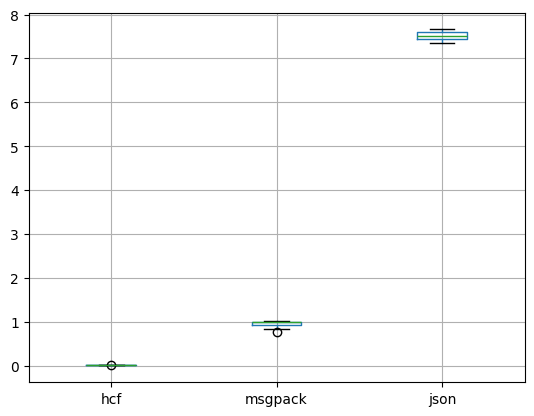
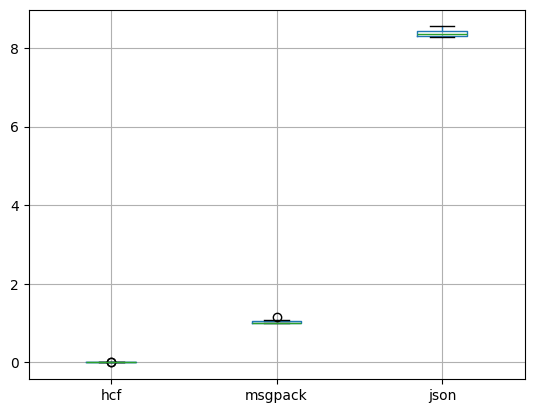
drop link to docs for now

diff --git a/docs/notebooks/Create Catalog.html b/docs/notebooks/Create Catalog.html
@@ -137,10 +137,10 @@ pre > code.sourceCode > span > a:first-child::before { text-decoration: underlin
 
 
 <p>Download an example product catalog from this <a href="https://www.kaggle.com/datasets/paramaggarwal/fashion-product-images-small">Kaggle dataset</a>.</p>
-<div id="63f2b9d5-428e-49b3-bf00-dd26ed279cc1" class="cell" data-execution_count="19">
+<div id="63f2b9d5-428e-49b3-bf00-dd26ed279cc1" class="cell" data-execution_count="9">
 <div class="sourceCode cell-code" id="cb1"><pre class="sourceCode python code-with-copy"><code class="sourceCode python"><span id="cb1-1"><a href="#cb1-1" aria-hidden="true" tabindex="-1"></a><span class="im">import</span> glob</span>
 <span id="cb1-2"><a href="#cb1-2" aria-hidden="true" tabindex="-1"></a><span class="im">from</span> hushh <span class="im">import</span> catalog</span>
-<span id="cb1-3"><a href="#cb1-3" aria-hidden="true" tabindex="-1"></a><span class="im">from</span> hushh.catalog <span class="im">import</span> Catalog, Product</span>
+<span id="cb1-3"><a href="#cb1-3" aria-hidden="true" tabindex="-1"></a><span class="im">from</span> hushh.catalog <span class="im">import</span> Catalog, Product, Brand</span>
 <span id="cb1-4"><a href="#cb1-4" aria-hidden="true" tabindex="-1"></a><span class="im">from</span> PIL <span class="im">import</span> Image</span>
 <span id="cb1-5"><a href="#cb1-5" aria-hidden="true" tabindex="-1"></a><span class="im">import</span> json</span>
 <span id="cb1-6"><a href="#cb1-6" aria-hidden="true" tabindex="-1"></a><span class="im">from</span> tqdm <span class="im">import</span> tqdm</span>
@@ -162,24 +162,24 @@ pre > code.sourceCode > span > a:first-child::before { text-decoration: underlin
 <section id="data-details" class="level2">
 <h2 class="anchored" data-anchor-id="data-details">Data Details</h2>
 <p>The dataset contains around ~40K fashion related images</p>
-<div id="6a99a9ea-4d69-4a36-8b14-b795962494ee" class="cell" data-execution_count="2">
+<div id="6a99a9ea-4d69-4a36-8b14-b795962494ee" class="cell" data-execution_count="4">
 <div class="sourceCode cell-code" id="cb4"><pre class="sourceCode python code-with-copy"><code class="sourceCode python"><span id="cb4-1"><a href="#cb4-1" aria-hidden="true" tabindex="-1"></a><span class="bu">len</span>(glob.glob(<span class="st">"images/*"</span>))</span></code><button title="Copy to Clipboard" class="code-copy-button"><i class="bi"></i></button></pre></div>
-<div class="cell-output cell-output-display" data-execution_count="2">
+<div class="cell-output cell-output-display" data-execution_count="4">
 <pre><code>44441</code></pre>
 </div>
 </div>
 <p>Taking a quick look at the images, they’re jpeg files, with an id as a file name.</p>
-<div id="55d7de12-6592-4575-b891-87bef2bbbaa2" class="cell" data-execution_count="3">
+<div id="55d7de12-6592-4575-b891-87bef2bbbaa2" class="cell" data-execution_count="5">
 <div class="sourceCode cell-code" id="cb6"><pre class="sourceCode python code-with-copy"><code class="sourceCode python"><span id="cb6-1"><a href="#cb6-1" aria-hidden="true" tabindex="-1"></a><span class="bu">print</span>(glob.glob(<span class="st">"images/*"</span>)[:<span class="dv">10</span>])</span></code><button title="Copy to Clipboard" class="code-copy-button"><i class="bi"></i></button></pre></div>
 <div class="cell-output cell-output-stdout">
 <pre><code>['images/9733.jpg', 'images/14147.jpg', 'images/52112.jpg', 'images/6400.jpg', 'images/34297.jpg', 'images/24084.jpg', 'images/12536.jpg', 'images/54563.jpg', 'images/15259.jpg', 'images/35189.jpg']</code></pre>
 </div>
 </div>
 <p>The “styles” csv file gives some of the metadata for a given id.</p>
-<div id="e3cf1060-f5c2-417a-8fb5-475f305abaa9" class="cell" data-execution_count="4">
+<div id="e3cf1060-f5c2-417a-8fb5-475f305abaa9" class="cell" data-execution_count="6">
 <div class="sourceCode cell-code" id="cb8"><pre class="sourceCode python code-with-copy"><code class="sourceCode python"><span id="cb8-1"><a href="#cb8-1" aria-hidden="true" tabindex="-1"></a>styles <span class="op">=</span> pd.read_csv(<span class="st">"styles.csv"</span>,usecols<span class="op">=</span><span class="bu">range</span>(<span class="dv">10</span>), index_col<span class="op">=</span><span class="dv">0</span>)</span>
 <span id="cb8-2"><a href="#cb8-2" aria-hidden="true" tabindex="-1"></a>styles.head()</span></code><button title="Copy to Clipboard" class="code-copy-button"><i class="bi"></i></button></pre></div>
-<div class="cell-output cell-output-display" data-execution_count="4">
+<div class="cell-output cell-output-display" data-execution_count="6">
 <div>
 <div>
 
@@ -289,10 +289,10 @@ pre > code.sourceCode > span > a:first-child::before { text-decoration: underlin
 <li>Create a product for the id and metadata (using a dummy url, since we won’t be linking to a product url).</li>
 </ol>
 <p>The Catalog comes with its own method for writing catalog files.</p>
-<div id="f79c3d89-4236-4b67-9675-fd1f076ebb73" class="cell">
+<div id="f79c3d89-4236-4b67-9675-fd1f076ebb73" class="cell" data-execution_count="10">
 <div class="sourceCode cell-code" id="cb9"><pre class="sourceCode python code-with-copy"><code class="sourceCode python"><span id="cb9-1"><a href="#cb9-1" aria-hidden="true" tabindex="-1"></a></span>
 <span id="cb9-2"><a href="#cb9-2" aria-hidden="true" tabindex="-1"></a>cat <span class="op">=</span> Catalog(<span class="st">"demo_catalog"</span>)</span>
-<span id="cb9-3"><a href="#cb9-3" aria-hidden="true" tabindex="-1"></a></span>
+<span id="cb9-3"><a href="#cb9-3" aria-hidden="true" tabindex="-1"></a>dummy_brand <span class="op">=</span> Brand(<span class="st">"dummy"</span>, <span class="st">"description"</span>, <span class="st">"dummy_url"</span>)</span>
 <span id="cb9-4"><a href="#cb9-4" aria-hidden="true" tabindex="-1"></a><span class="cf">for</span> filename <span class="kw">in</span> tqdm(glob.glob(<span class="st">"images/*"</span>)):</span>
 <span id="cb9-5"><a href="#cb9-5" aria-hidden="true" tabindex="-1"></a>    <span class="bu">id</span>, ext <span class="op">=</span> os.path.splitext(os.path.basename(filename))</span>
 <span id="cb9-6"><a href="#cb9-6" aria-hidden="true" tabindex="-1"></a>    <span class="bu">id</span> <span class="op">=</span> <span class="bu">int</span>(<span class="bu">id</span>)</span>
@@ -301,13 +301,13 @@ pre > code.sourceCode > span > a:first-child::before { text-decoration: underlin
 <span id="cb9-9"><a href="#cb9-9" aria-hidden="true" tabindex="-1"></a>        <span class="cf">pass</span></span>
 <span id="cb9-10"><a href="#cb9-10" aria-hidden="true" tabindex="-1"></a>        <span class="co"># print(f"Skipping: {id}, product had no description")</span></span>
 <span id="cb9-11"><a href="#cb9-11" aria-hidden="true" tabindex="-1"></a>    <span class="cf">else</span>:</span>
-<span id="cb9-12"><a href="#cb9-12" aria-hidden="true" tabindex="-1"></a>        prod <span class="op">=</span> Product(description<span class="op">=</span>style.productDisplayName, url<span class="op">=</span><span class="st">"dummy_url"</span>, image<span class="op">=</span>filename)</span>
+<span id="cb9-12"><a href="#cb9-12" aria-hidden="true" tabindex="-1"></a>        prod <span class="op">=</span> Product(description<span class="op">=</span>style.productDisplayName, url<span class="op">=</span><span class="st">"dummy_url"</span>, image<span class="op">=</span>filename, brand <span class="op">=</span> dummy_brand)</span>
 <span id="cb9-13"><a href="#cb9-13" aria-hidden="true" tabindex="-1"></a>        cat.addProduct(prod)</span>
 <span id="cb9-14"><a href="#cb9-14" aria-hidden="true" tabindex="-1"></a></span>
 <span id="cb9-15"><a href="#cb9-15" aria-hidden="true" tabindex="-1"></a><span class="bu">print</span>(<span class="st">"Writing Catalog"</span>)</span>
 <span id="cb9-16"><a href="#cb9-16" aria-hidden="true" tabindex="-1"></a>cat.to_hcf(<span class="st">"catalog.hcf"</span>)</span></code><button title="Copy to Clipboard" class="code-copy-button"><i class="bi"></i></button></pre></div>
 <div class="cell-output cell-output-stderr">
-<pre><code>100%|█████████████████████████████████████████████████████████████████████████████████████████████████████████████████████████████████████████████████████████████████████████████████████| 44441/44441 [00:14&lt;00:00, 3120.79it/s]</code></pre>
+<pre><code>100%|████████████████████████████████████████████████████████████████████████████████████████████████████████████████████████████████████████████████████████████████████████████████████████████████████████████████████████████████████████████████████████████████████████████████████████████████████| 44441/44441 [00:14&lt;00:00, 3134.00it/s]</code></pre>
 </div>
 <div class="cell-output cell-output-stdout">
 <pre><code>Writing Catalog
@@ -327,21 +327,29 @@ Collected Image and text features for batch 2
 Image embeddings collected for batch 2
 Text embeddings collected for batch 2
 Collected images and text for batch 3
-Collected inputs for batch 3</code></pre>
+Collected inputs for batch 3
+Collected Image and text features for batch 3
+Image embeddings collected for batch 3
+Text embeddings collected for batch 3
+Collected images and text for batch 4
+Collected inputs for batch 4
+Collected Image and text features for batch 4
+Image embeddings collected for batch 4
+Text embeddings collected for batch 4</code></pre>
 </div>
 </div>
 </section>
 <section id="create-a-comparison-json-dataset" class="level2">
 <h2 class="anchored" data-anchor-id="create-a-comparison-json-dataset">Create a comparison JSON dataset</h2>
 <p>We will set up a quick and dirty json output for comparison. This just dumps the flatbatch content from the catalog in standard json format.</p>
-<div id="87020271-8a04-45ed-90ea-6ca6d135446a" class="cell" data-execution_count="6">
+<div id="87020271-8a04-45ed-90ea-6ca6d135446a" class="cell" data-execution_count="11">
 <div class="sourceCode cell-code" id="cb12"><pre class="sourceCode python code-with-copy"><code class="sourceCode python"><span id="cb12-1"><a href="#cb12-1" aria-hidden="true" tabindex="-1"></a><span class="cf">with</span> <span class="bu">open</span> (<span class="st">"catalog.json"</span>, <span class="st">"w"</span>) <span class="im">as</span> fh:</span>
 <span id="cb12-2"><a href="#cb12-2" aria-hidden="true" tabindex="-1"></a>    json.dump(cat.productVibes, fh, default<span class="op">=</span><span class="kw">lambda</span> o: o.__dict__)</span></code><button title="Copy to Clipboard" class="code-copy-button"><i class="bi"></i></button></pre></div>
 </div>
 </section>
 <section id="create-a-comparison-msgpack-dataset" class="level1">
 <h1>Create a comparison MsgPack dataset</h1>
-<div id="331b99c7-773f-4888-bbd8-196914accd16" class="cell" data-execution_count="41">
+<div id="331b99c7-773f-4888-bbd8-196914accd16" class="cell" data-execution_count="12">
 <div class="sourceCode cell-code" id="cb13"><pre class="sourceCode python code-with-copy"><code class="sourceCode python"><span id="cb13-1"><a href="#cb13-1" aria-hidden="true" tabindex="-1"></a><span class="cf">with</span> <span class="bu">open</span> (<span class="st">"catalog.msgpack"</span>, <span class="st">"wb"</span>) <span class="im">as</span> fh:</span>
 <span id="cb13-2"><a href="#cb13-2" aria-hidden="true" tabindex="-1"></a>    packed <span class="op">=</span> msgpack.packb(cat.productVibes, default<span class="op">=</span><span class="kw">lambda</span> o: o.__dict__)</span>
 <span id="cb13-3"><a href="#cb13-3" aria-hidden="true" tabindex="-1"></a>    fh.write(packed)</span></code><button title="Copy to Clipboard" class="code-copy-button"><i class="bi"></i></button></pre></div>
@@ -349,7 +357,7 @@ Collected inputs for batch 3</code></pre>
 </section>
 <section id="timings" class="level1">
 <h1>Timings</h1>
-<div id="e017eba2-5179-498e-8504-2d6ba4e5fbdd" class="cell" data-execution_count="47">
+<div id="e017eba2-5179-498e-8504-2d6ba4e5fbdd" class="cell" data-execution_count="13">
 <div class="sourceCode cell-code" id="cb14"><pre class="sourceCode python code-with-copy"><code class="sourceCode python"><span id="cb14-1"><a href="#cb14-1" aria-hidden="true" tabindex="-1"></a><span class="im">import</span> time</span>
 <span id="cb14-2"><a href="#cb14-2" aria-hidden="true" tabindex="-1"></a><span class="im">import</span> numpy <span class="im">as</span> np</span>
 <span id="cb14-3"><a href="#cb14-3" aria-hidden="true" tabindex="-1"></a><span class="kw">def</span> json_open():</span>
@@ -382,19 +390,19 @@ Collected inputs for batch 3</code></pre>
 <span id="cb14-30"><a href="#cb14-30" aria-hidden="true" tabindex="-1"></a>json_result <span class="op">=</span> timer(json_open, <span class="bu">iter</span>)</span>
 <span id="cb14-31"><a href="#cb14-31" aria-hidden="true" tabindex="-1"></a><span class="bu">print</span>(json_result)</span></code><button title="Copy to Clipboard" class="code-copy-button"><i class="bi"></i></button></pre></div>
 <div class="cell-output cell-output-stdout">
-<pre><code>[0.0017621517181396484, 0.0009391307830810547, 0.0007212162017822266, 0.0009021759033203125, 0.0008409023284912109, 0.0009250640869140625, 0.0008530616760253906, 0.0006358623504638672, 0.0006289482116699219, 0.0006871223449707031]
-[0.9692511558532715, 1.0034160614013672, 1.0053150653839111, 0.8395180702209473, 0.9242990016937256, 0.9968812465667725, 1.0046262741088867, 0.7576639652252197, 0.9129230976104736, 0.9955949783325195]
-[7.44507908821106, 7.346750974655151, 7.513769865036011, 7.661447763442993, 7.529480934143066, 7.461015701293945, 7.61430025100708, 7.577383995056152, 7.6200478076934814, 7.3818018436431885]</code></pre>
+<pre><code>[0.0015377998352050781, 0.0005290508270263672, 0.0003757476806640625, 0.00036406517028808594, 0.00032210350036621094, 0.0002968311309814453, 0.00028395652770996094, 0.00029730796813964844, 0.0002753734588623047, 0.0002880096435546875]
+[1.020730972290039, 1.0010380744934082, 1.0054049491882324, 1.0061712265014648, 1.0044982433319092, 1.0037586688995361, 1.0393331050872803, 1.0700643062591553, 1.0448849201202393, 1.1458632946014404]
+[8.437949895858765, 8.285770893096924, 8.308837890625, 8.547929048538208, 8.436304807662964, 8.378078937530518, 8.430732011795044, 8.348234176635742, 8.325695991516113, 8.285079717636108]</code></pre>
 </div>
 </div>
-<div id="308942f0-92e2-479c-8df7-26ef7a5163ba" class="cell" data-execution_count="49">
+<div id="308942f0-92e2-479c-8df7-26ef7a5163ba" class="cell" data-execution_count="14">
 <div class="sourceCode cell-code" id="cb16"><pre class="sourceCode python code-with-copy"><code class="sourceCode python"><span id="cb16-1"><a href="#cb16-1" aria-hidden="true" tabindex="-1"></a><span class="im">import</span> pandas <span class="im">as</span> pd</span>
 <span id="cb16-2"><a href="#cb16-2" aria-hidden="true" tabindex="-1"></a></span>
 <span id="cb16-3"><a href="#cb16-3" aria-hidden="true" tabindex="-1"></a>dat<span class="op">=</span> pd.DataFrame({<span class="st">"hcf"</span> : hcf_result,<span class="st">"msgpack"</span> : msg_result,  <span class="st">"json"</span> : json_result})</span></code><button title="Copy to Clipboard" class="code-copy-button"><i class="bi"></i></button></pre></div>
 </div>
-<div id="d0e65786-91fe-4827-9c66-dfd82fdcae35" class="cell" data-execution_count="50">
+<div id="d0e65786-91fe-4827-9c66-dfd82fdcae35" class="cell" data-execution_count="15">
 <div class="sourceCode cell-code" id="cb17"><pre class="sourceCode python code-with-copy"><code class="sourceCode python"><span id="cb17-1"><a href="#cb17-1" aria-hidden="true" tabindex="-1"></a>dat</span></code><button title="Copy to Clipboard" class="code-copy-button"><i class="bi"></i></button></pre></div>
-<div class="cell-output cell-output-display" data-execution_count="50">
+<div class="cell-output cell-output-display" data-execution_count="15">
 <div>
 <div>
 
@@ -404,70 +412,70 @@ Collected inputs for batch 3</code></pre>
 <tr class="header">
 <th data-quarto-table-cell-role="th"></th>
 <th data-quarto-table-cell-role="th">hcf</th>
-<th data-quarto-table-cell-role="th">json</th>
 <th data-quarto-table-cell-role="th">msgpack</th>
+<th data-quarto-table-cell-role="th">json</th>
 </tr>
 </thead>
 <tbody>
 <tr class="odd">
 <td data-quarto-table-cell-role="th">0</td>
-<td>0.001762</td>
-<td>7.445079</td>
-<td>0.969251</td>
+<td>0.001538</td>
+<td>1.020731</td>
+<td>8.437950</td>
 </tr>
 <tr class="even">
 <td data-quarto-table-cell-role="th">1</td>
-<td>0.000939</td>
-<td>7.346751</td>
-<td>1.003416</td>
+<td>0.000529</td>
+<td>1.001038</td>
+<td>8.285771</td>
 </tr>
 <tr class="odd">
 <td data-quarto-table-cell-role="th">2</td>
-<td>0.000721</td>
-<td>7.513770</td>
-<td>1.005315</td>
+<td>0.000376</td>
+<td>1.005405</td>
+<td>8.308838</td>
 </tr>
 <tr class="even">
 <td data-quarto-table-cell-role="th">3</td>
-<td>0.000902</td>
-<td>7.661448</td>
-<td>0.839518</td>
+<td>0.000364</td>
+<td>1.006171</td>
+<td>8.547929</td>
 </tr>
 <tr class="odd">
 <td data-quarto-table-cell-role="th">4</td>
-<td>0.000841</td>
-<td>7.529481</td>
-<td>0.924299</td>
+<td>0.000322</td>
+<td>1.004498</td>
+<td>8.436305</td>
 </tr>
 <tr class="even">
 <td data-quarto-table-cell-role="th">5</td>
-<td>0.000925</td>
-<td>7.461016</td>
-<td>0.996881</td>
+<td>0.000297</td>
+<td>1.003759</td>
+<td>8.378079</td>
 </tr>
 <tr class="odd">
 <td data-quarto-table-cell-role="th">6</td>
-<td>0.000853</td>
-<td>7.614300</td>
-<td>1.004626</td>
+<td>0.000284</td>
+<td>1.039333</td>
+<td>8.430732</td>
 </tr>
 <tr class="even">
 <td data-quarto-table-cell-role="th">7</td>
-<td>0.000636</td>
-<td>7.577384</td>
-<td>0.757664</td>
+<td>0.000297</td>
+<td>1.070064</td>
+<td>8.348234</td>
 </tr>
 <tr class="odd">
 <td data-quarto-table-cell-role="th">8</td>
-<td>0.000629</td>
-<td>7.620048</td>
-<td>0.912923</td>
+<td>0.000275</td>
+<td>1.044885</td>
+<td>8.325696</td>
 </tr>
 <tr class="even">
 <td data-quarto-table-cell-role="th">9</td>
-<td>0.000687</td>
-<td>7.381802</td>
-<td>0.995595</td>
+<td>0.000288</td>
+<td>1.145863</td>
+<td>8.285080</td>
 </tr>
 </tbody>
 </table>
@@ -476,7 +484,7 @@ Collected inputs for batch 3</code></pre>
 </div>
 </div>
 </div>
-<div id="90e6bcc7-f5d1-4500-b647-f24c2efdf01e" class="cell" data-execution_count="65">
+<div id="90e6bcc7-f5d1-4500-b647-f24c2efdf01e" class="cell" data-execution_count="16">
 <div class="sourceCode cell-code" id="cb18"><pre class="sourceCode python code-with-copy"><code class="sourceCode python"><span id="cb18-1"><a href="#cb18-1" aria-hidden="true" tabindex="-1"></a>dat.to_csv(<span class="st">"results.csv"</span>)</span></code><button title="Copy to Clipboard" class="code-copy-button"><i class="bi"></i></button></pre></div>
 </div>
 <div id="6c67ddc8-f6fb-4ce4-94eb-e475407aa360" class="cell" data-execution_count="17">
@@ -511,45 +519,45 @@ Collected inputs for batch 3</code></pre>
 </tr>
 <tr class="even">
 <td data-quarto-table-cell-role="th">mean</td>
-<td>0.000890</td>
-<td>0.940949</td>
-<td>7.515108</td>
+<td>0.000457</td>
+<td>1.034175</td>
+<td>8.378461</td>
 </tr>
 <tr class="odd">
 <td data-quarto-table-cell-role="th">std</td>
-<td>0.000328</td>
-<td>0.084301</td>
-<td>0.105566</td>
+<td>0.000387</td>
+<td>0.045461</td>
+<td>0.084455</td>
 </tr>
 <tr class="even">
 <td data-quarto-table-cell-role="th">min</td>
-<td>0.000629</td>
-<td>0.757664</td>
-<td>7.346751</td>
+<td>0.000275</td>
+<td>1.001038</td>
+<td>8.285080</td>
 </tr>
 <tr class="odd">
 <td data-quarto-table-cell-role="th">25%</td>
-<td>0.000696</td>
-<td>0.915767</td>
-<td>7.449063</td>
+<td>0.000290</td>
+<td>1.004725</td>
+<td>8.313052</td>
 </tr>
 <tr class="even">
 <td data-quarto-table-cell-role="th">50%</td>
-<td>0.000847</td>
-<td>0.982423</td>
-<td>7.521625</td>
+<td>0.000310</td>
+<td>1.013451</td>
+<td>8.363157</td>
 </tr>
 <tr class="odd">
 <td data-quarto-table-cell-role="th">75%</td>
-<td>0.000919</td>
-<td>1.001782</td>
-<td>7.605071</td>
+<td>0.000373</td>
+<td>1.043497</td>
+<td>8.434912</td>
 </tr>
 <tr class="even">
 <td data-quarto-table-cell-role="th">max</td>
-<td>0.001762</td>
-<td>1.005315</td>
-<td>7.661448</td>
+<td>0.001538</td>
+<td>1.145863</td>
+<td>8.547929</td>
 </tr>
 </tbody>
 </table>
@@ -558,7 +566,7 @@ Collected inputs for batch 3</code></pre>
 </div>
 </div>
 </div>
-<div id="08251ca3-23dd-4d33-a30e-444552268b95" class="cell" data-execution_count="21">
+<div id="08251ca3-23dd-4d33-a30e-444552268b95" class="cell" data-execution_count="20">
 <div class="sourceCode cell-code" id="cb22"><pre class="sourceCode python code-with-copy"><code class="sourceCode python"><span id="cb22-1"><a href="#cb22-1" aria-hidden="true" tabindex="-1"></a>dat.boxplot()<span class="op">;</span></span></code><button title="Copy to Clipboard" class="code-copy-button"><i class="bi"></i></button></pre></div>
 <div class="cell-output cell-output-display">
 <div>
@@ -568,28 +576,14 @@ Collected inputs for batch 3</code></pre>
 </div>
 </div>
 </div>
-<div id="7a5946c1-4c08-4fcc-ae1e-172a9533c6a4" class="cell" data-execution_count="22">
+<div id="7a5946c1-4c08-4fcc-ae1e-172a9533c6a4" class="cell" data-execution_count="21">
 <div class="sourceCode cell-code" id="cb23"><pre class="sourceCode python code-with-copy"><code class="sourceCode python"><span id="cb23-1"><a href="#cb23-1" aria-hidden="true" tabindex="-1"></a>dat.mean().plot.bar(title<span class="op">=</span><span class="st">"Loading Time (seconds)"</span>)<span class="op">;</span></span></code><button title="Copy to Clipboard" class="code-copy-button"><i class="bi"></i></button></pre></div>
-<div class="cell-output cell-output-display">
-<div>
-<figure class="figure">
-<p><img src="Create Catalog_files/figure-html/cell-19-output-1.png" class="img-fluid figure-img"></p>
-</figure>
 </div>
-</div>
-</div>
-<div id="d2b1d568-e99f-40c2-83ab-c68a570b4ef3" class="cell" data-execution_count="24">
+<div id="d2b1d568-e99f-40c2-83ab-c68a570b4ef3" class="cell" data-execution_count="22">
 <div class="sourceCode cell-code" id="cb24"><pre class="sourceCode python code-with-copy"><code class="sourceCode python"><span id="cb24-1"><a href="#cb24-1" aria-hidden="true" tabindex="-1"></a>dat2 <span class="op">=</span> pd.DataFrame({<span class="st">"hcf"</span> : [<span class="dv">179</span>] ,<span class="st">"msgpack"</span> : [<span class="dv">357</span>],  <span class="st">"json"</span> : [<span class="dv">834</span>]})</span></code><button title="Copy to Clipboard" class="code-copy-button"><i class="bi"></i></button></pre></div>
 </div>
-<div id="bbe3680f-dfe3-4883-bb39-96359df28488" class="cell" data-execution_count="25">
+<div id="bbe3680f-dfe3-4883-bb39-96359df28488" class="cell" data-execution_count="23">
 <div class="sourceCode cell-code" id="cb25"><pre class="sourceCode python code-with-copy"><code class="sourceCode python"><span id="cb25-1"><a href="#cb25-1" aria-hidden="true" tabindex="-1"></a>dat2.mean().plot.bar(title<span class="op">=</span><span class="st">"File Size (MB)"</span>)<span class="op">;</span></span></code><button title="Copy to Clipboard" class="code-copy-button"><i class="bi"></i></button></pre></div>
-<div class="cell-output cell-output-display">
-<div>
-<figure class="figure">
-<p><img src="Create Catalog_files/figure-html/cell-21-output-1.png" class="img-fluid figure-img"></p>
-</figure>
-</div>
-</div>
 </div>
 
 

diff --git a/README.md b/README.md
@@ -5,8 +5,7 @@
 \# hushh-vibe-catalog Support clients for the hushh vibe-catalog file
 format
 
-There is documentation
-[available](https://hushh-labs.github.io/hushh-vibe-catalog-reader/reference)
+<!-- There is documentation [available](https://hushh-labs.github.io/hushh-vibe-catalog-reader/reference) -->
 
 # Installation
 
